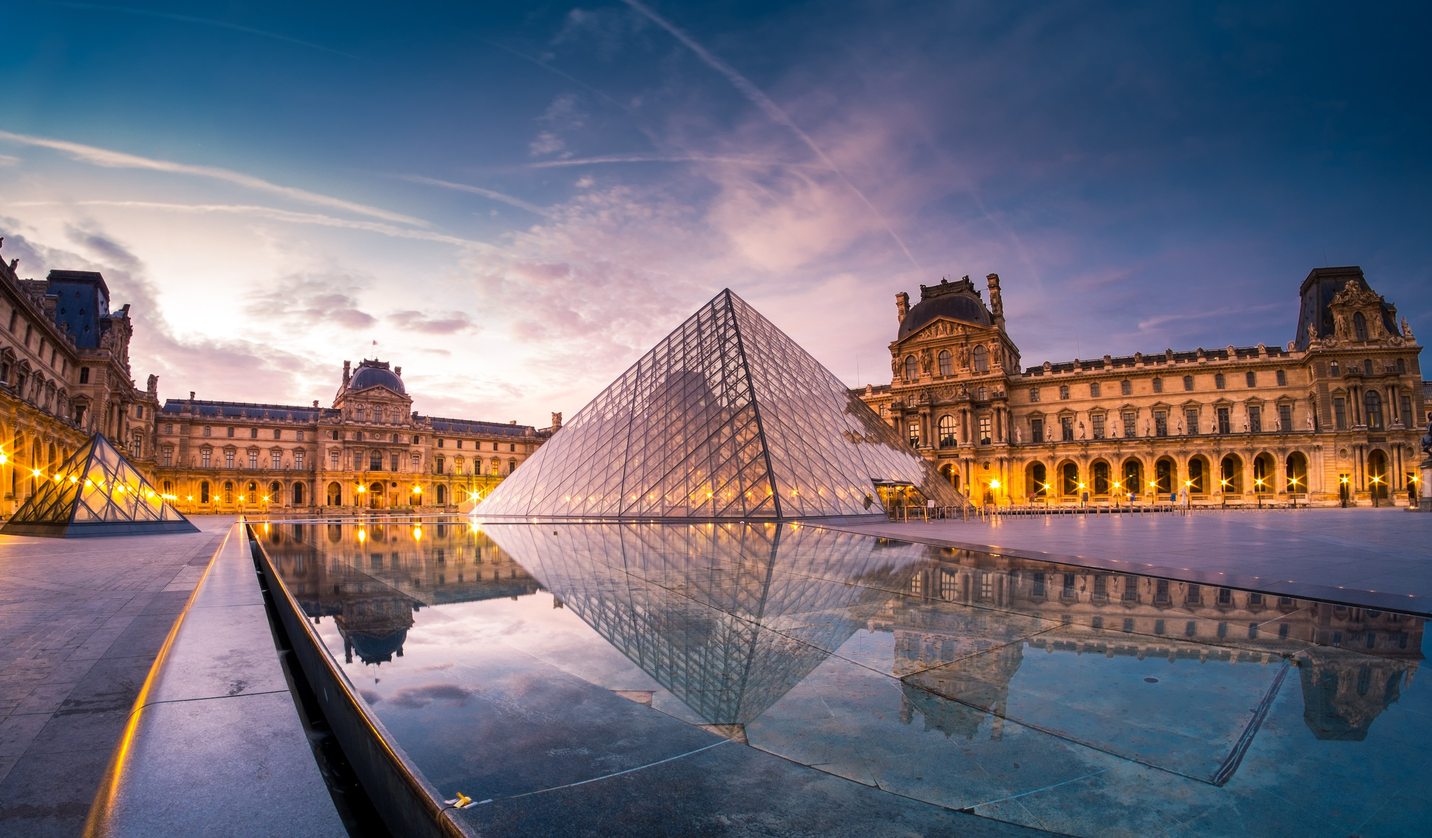
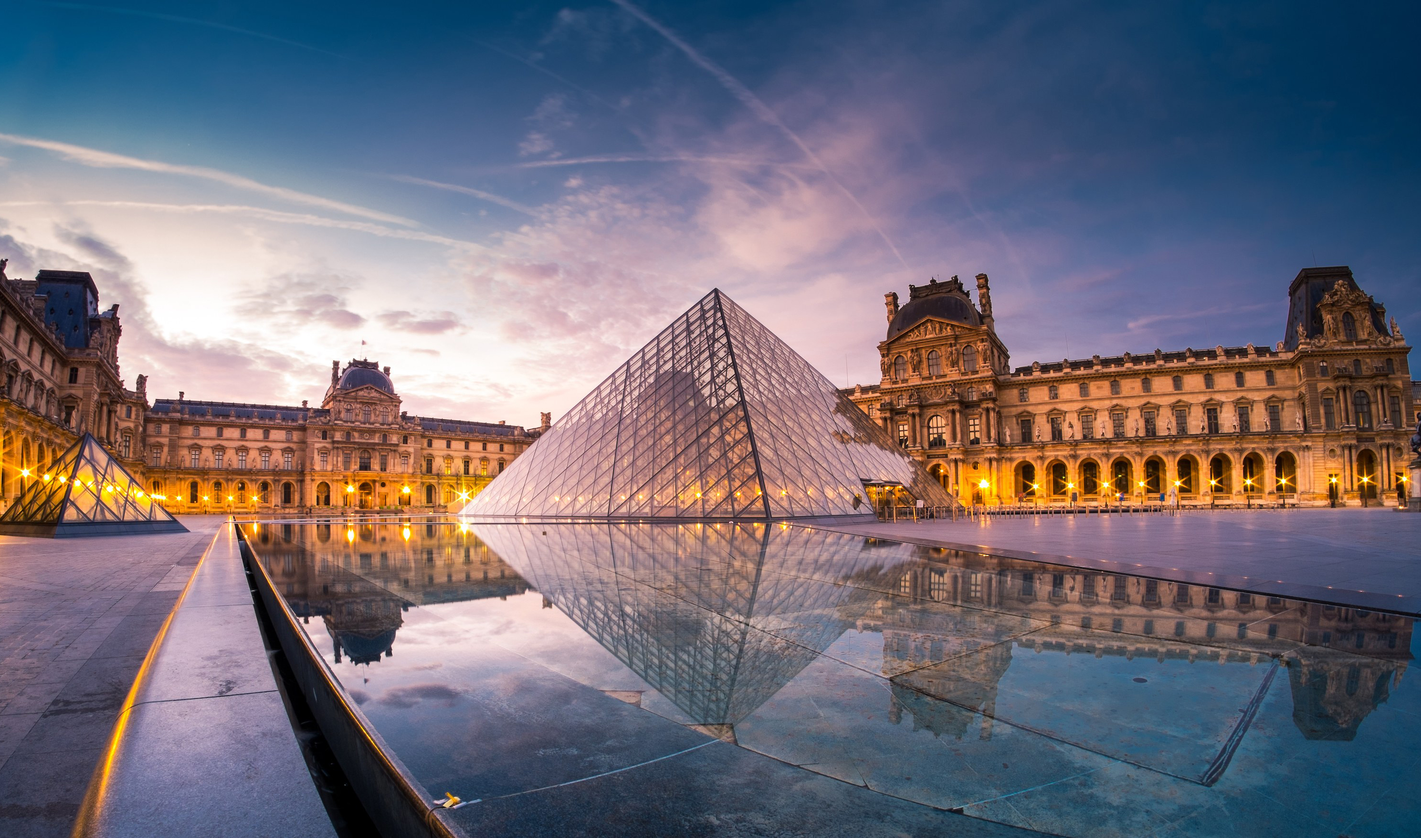
Modify to center pyramid

diff --git a/web/assets/css/main.css b/web/assets/css/main.css
@@ -10,7 +10,7 @@
 /***********/
 /* GÉNÉRAL */
 /***********/
-body { background: url("../images/bg.jpg") no-repeat fixed center center; }
+body { background: url("../images/bg.jpg") no-repeat fixed 50.4% 50%; }
 .marginTop { margin-top: 40px; }
 .customWell
 {
